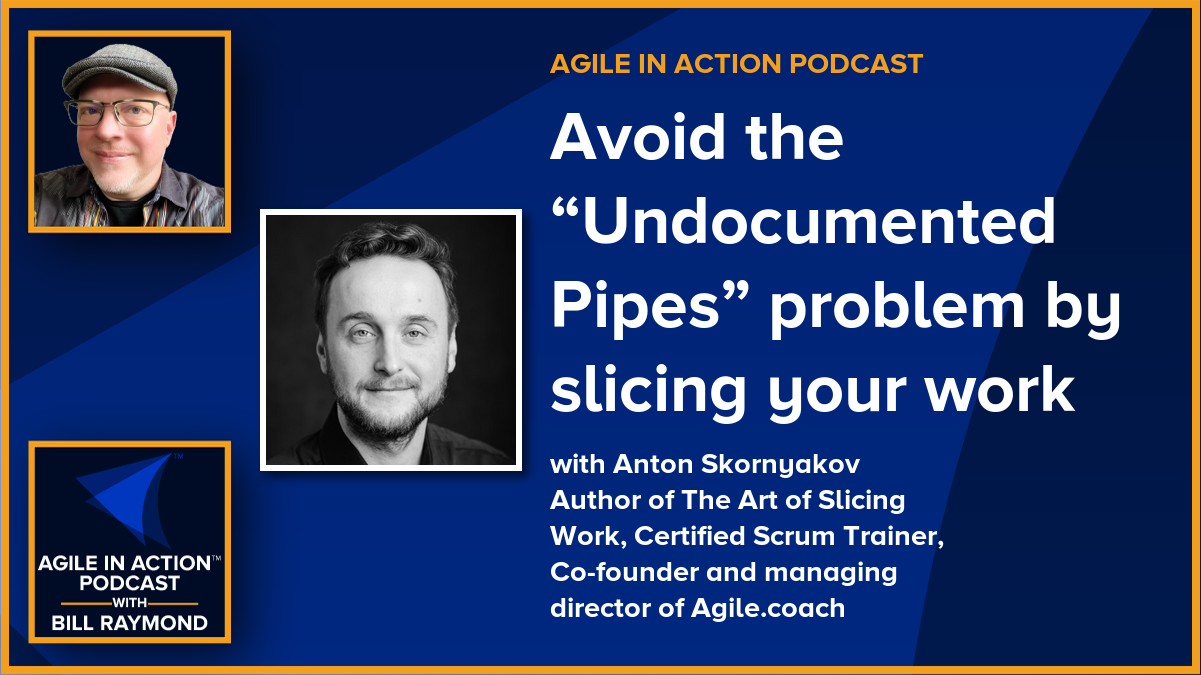
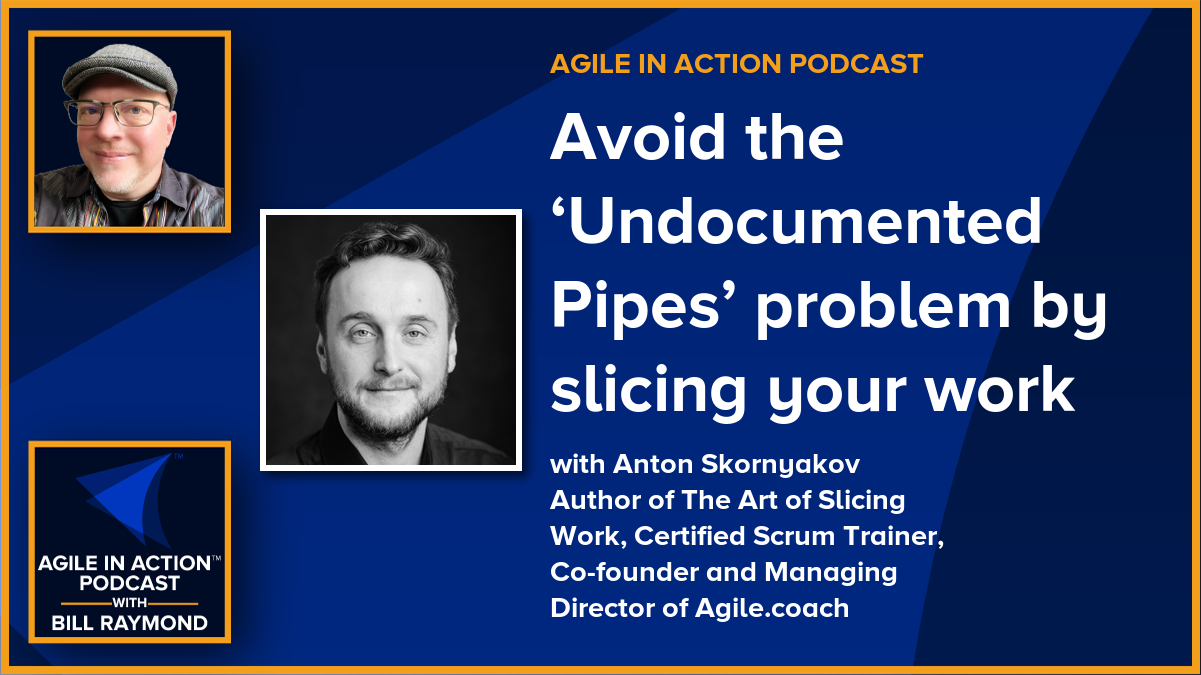
Jekyll build from Action

Changed region(s): [[0.4621, 0.28, 0.8934, 0.3733], [0.6162, 0.4044, 0.955, 0.5289], [0.4621, 0.8711, 0.7086, 0.9333]]

diff --git a/agile-in-action-podcast/2024/03/12/avoid-the-undocumented-pipes-problem-by-slicing-your-work.html b/agile-in-action-podcast/2024/03/12/avoid-the-undocumented-pipes-problem-by-slicing-your-work.html
@@ -6,10 +6,10 @@
   <title>The Agile in Action with Bill Raymond Podcast</title>
   <meta name="twitter:card" content="summary_large_image">
   <meta name="twitter:creator" content="@billraymonde" />
-  <meta name="twitter:title" content="Avoid the "Undocumented Pipes" problem by slicing your work">
+  <meta name="twitter:title" content="Avoid the 'Undocumented Pipes' problem by slicing your work">
   <meta name="twitter:image" content="https://www.agileinaction.com/uploads/wf-featured-images/2024-03-12-avoid-the-undocumented-pipes-problem-by-slicing-your-work.png">
   <meta property="og:image" content="https://www.agileinaction.com/uploads/wf-featured-images/2024-03-12-avoid-the-undocumented-pipes-problem-by-slicing-your-work.png">
-  <meta property="og:description" content="Avoid the "Undocumented Pipes" problem by slicing your work"/>
+  <meta property="og:description" content="Avoid the 'Undocumented Pipes' problem by slicing your work"/>
   <meta property="og:image:type" content="image/png">
   <meta property="og:image:width" content="1200">
   <meta property="og:image:height" content="675">  
@@ -34,7 +34,7 @@
   <header class="post-header">
     
     <div class="header-featured">
-        <img src="/uploads/wf-featured-images/2024-03-12-avoid-the-undocumented-pipes-problem-by-slicing-your-work-no-play.png" alt="Avoid the "Undocumented Pipes" problem by slicing your work">
+        <img src="/uploads/wf-featured-images/2024-03-12-avoid-the-undocumented-pipes-problem-by-slicing-your-work-no-play.png" alt="Avoid the 'Undocumented Pipes' problem by slicing your work">
     </div>
     <div class="podcast-youtube-player" itemprop="podcastYouTubePlayer"><h4>Watch now (here is a <a href="https://www.youtube.com/watch?v=pQk7wUP4k-U">direct link</a>)</h4>
         <iframe id="ytplayer" type="text/html" width="300" height="168.75"
@@ -65,12 +65,12 @@
             <img class="podcast-badge" itemprop="podcastBadge" src="/assets/podcast-badges/badge-google-podcasts.png" alt="alt">
         </a></div>
 <p></p>
-    <h1 class="post-title p-name" itemprop="name headline">Avoid the &quot;Undocumented Pipes&quot; problem by slicing your work</h1>
+    <h1 class="post-title p-name" itemprop="name headline">Avoid the &#39;Undocumented Pipes&#39; problem by slicing your work</h1>
     <p class="post-meta">
       <time class="dt-published" datetime="2024-03-12T00:00:00+00:00" itemprop="datePublished">Mar 12, 2024
       </time>• <span itemprop="author" itemscope itemtype="http://schema.org/Person"><span class="p-author h-card" itemprop="name">Bill Raymond</span></span></p>
   </header>
-      <h3>Anton Skornyakov,&nbsp;Author of The Art of Slicing Work, Certified Scrum Trainer, Co-founder and managing director of Agile.coach</h3>
+      <h3>Anton Skornyakov,&nbsp;Author of The Art of Slicing Work, Certified Scrum Trainer, Co-founder and Managing Director of Agile.coach</h3>
             <ul><li>
                     <a href="https://slicingwork.com/contact/" target="blank">💬 Contact Anton</a>
                 </li><li>

diff --git a/admin/index.html b/admin/index.html
@@ -38,8 +38,8 @@
 <p>Total guests: 125</p>
 <h2 class="post-list-heading">Latest Agile in Action Podcast with Bill Raymond</h2>
 
-<ul class="post-list"><li><h3>Mar 12, 2024</h3><a href="/agile-in-action-podcast/2024/03/12/avoid-the-undocumented-pipes-problem-by-slicing-your-work.html"><img src="/uploads/wf-featured-images/2024-03-12-avoid-the-undocumented-pipes-problem-by-slicing-your-work.png" alt="Avoid the &quot;Undocumented Pipes&quot; problem by slicing your work"></a>
-          <h3><a class="post-link" href="/agile-in-action-podcast/2024/03/12/avoid-the-undocumented-pipes-problem-by-slicing-your-work.html">Avoid the &quot;Undocumented Pipes&quot; problem by slicing your work</a></h3><strong>with </strong><span class="guest-name" itemprop="name">Anton Skornyakov, Author of The Art of Slicing Work, Certified Scrum Trainer, Co-founder and managing director of Agile.coach</span><br>https://agileinaction.com/agile-in-action-podcast/2024/03/12/avoid-the-undocumented-pipes-problem-by-slicing-your-work.html</li></ul><a href="/allpodcasts">See all podcasts >></a>
+<ul class="post-list"><li><h3>Mar 12, 2024</h3><a href="/agile-in-action-podcast/2024/03/12/avoid-the-undocumented-pipes-problem-by-slicing-your-work.html"><img src="/uploads/wf-featured-images/2024-03-12-avoid-the-undocumented-pipes-problem-by-slicing-your-work.png" alt="Avoid the &#39;Undocumented Pipes&#39; problem by slicing your work"></a>
+          <h3><a class="post-link" href="/agile-in-action-podcast/2024/03/12/avoid-the-undocumented-pipes-problem-by-slicing-your-work.html">Avoid the &#39;Undocumented Pipes&#39; problem by slicing your work</a></h3><strong>with </strong><span class="guest-name" itemprop="name">Anton Skornyakov, Author of The Art of Slicing Work, Certified Scrum Trainer, Co-founder and Managing Director of Agile.coach</span><br>https://agileinaction.com/agile-in-action-podcast/2024/03/12/avoid-the-undocumented-pipes-problem-by-slicing-your-work.html</li></ul><a href="/allpodcasts">See all podcasts >></a>
 <p></p>
 
 <p class="rss-subscribe">subscribe <a href="https://feeds.libsyn.com/257606/rss?_ga=2.185818153.1879997348.1668636242-117077834.1667517838">via RSS</a></p>

diff --git a/wf-01-create-fi/index.html b/wf-01-create-fi/index.html
@@ -134,7 +134,7 @@ magick convert fi-template.png `# load template background image`\
 <h2 id="testing-code">Testing code</h2>
 <p>This section creates the variables to use depending on the number of guests and guest titles</p>
 
-<div class="language-plaintext highlighter-rouge"><div class="highlight"><pre class="highlight"><code>Title: Avoid the "Undocumented Pipes" problem by slicing your work
+<div class="language-plaintext highlighter-rouge"><div class="highlight"><pre class="highlight"><code>Title: Avoid the 'Undocumented Pipes' problem by slicing your work
 
 
 
@@ -884,7 +884,7 @@ Title: Team topologies and an obsession over a rapid flow of change
 <h2 id="test-code">Test code</h2>
 <p>This section can be used to debug locally before adjusting the shell script.</p>
 
-<div class="language-plaintext highlighter-rouge"><div class="highlight"><pre class="highlight"><code>Title: Avoid the "Undocumented Pipes" problem by slicing your work
+<div class="language-plaintext highlighter-rouge"><div class="highlight"><pre class="highlight"><code>Title: Avoid the 'Undocumented Pipes' problem by slicing your work
 Size(new): 1
 First image: /uploads/Anton-Skornyakov.png
 Second image: 

diff --git a/wf-00-guest-images-fi/index.html b/wf-00-guest-images-fi/index.html
@@ -126,7 +126,7 @@ exit
 
 <h2 id="test-code">Test code</h2>
 <p>This section can be used to debug locally before adjusting the shell script
-    Title: Avoid the “Undocumented Pipes” problem by slicing your work</p>
+    Title: Avoid the ‘Undocumented Pipes’ problem by slicing your work</p>
 
 <div class="language-plaintext highlighter-rouge"><div class="highlight"><pre class="highlight"><code>    guest-photo: /uploads/Anton-Skornyakov.png
     filename: Anton-Skornyakov.png
